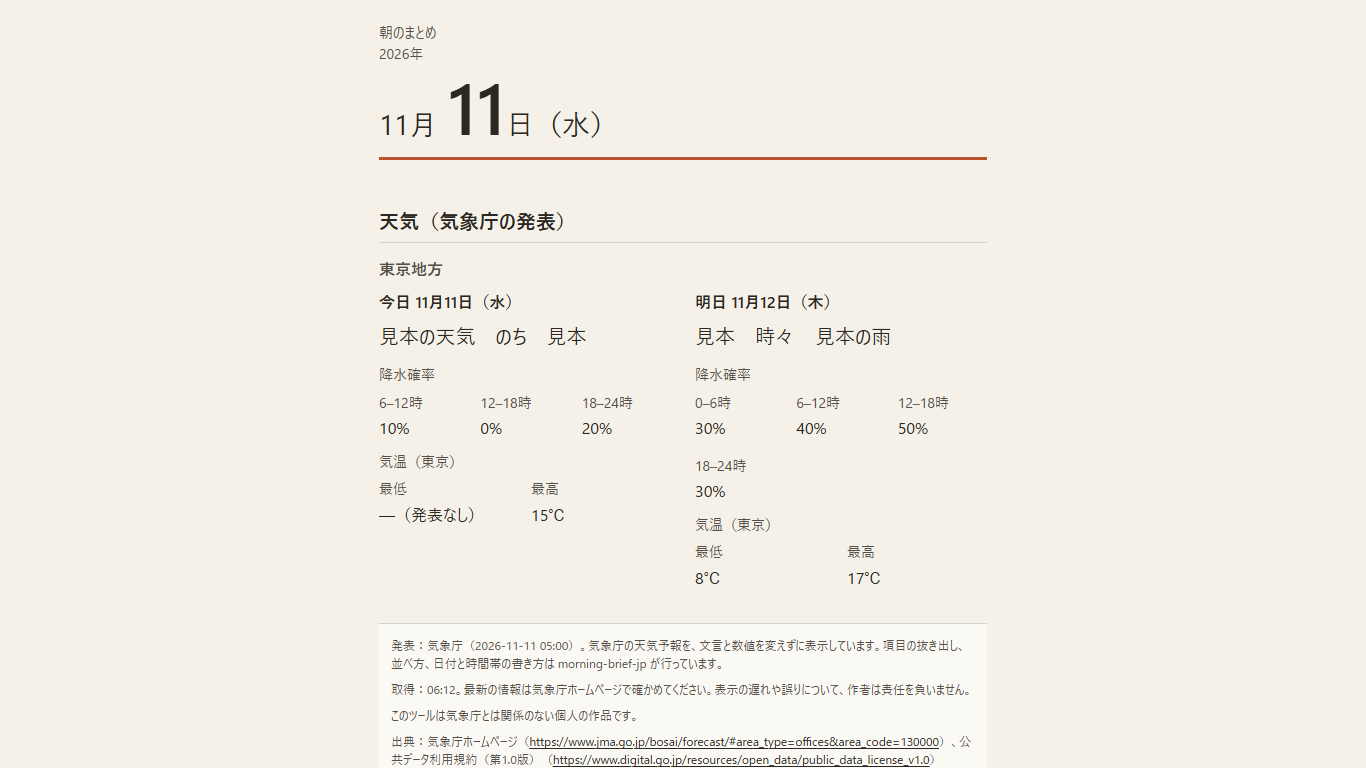
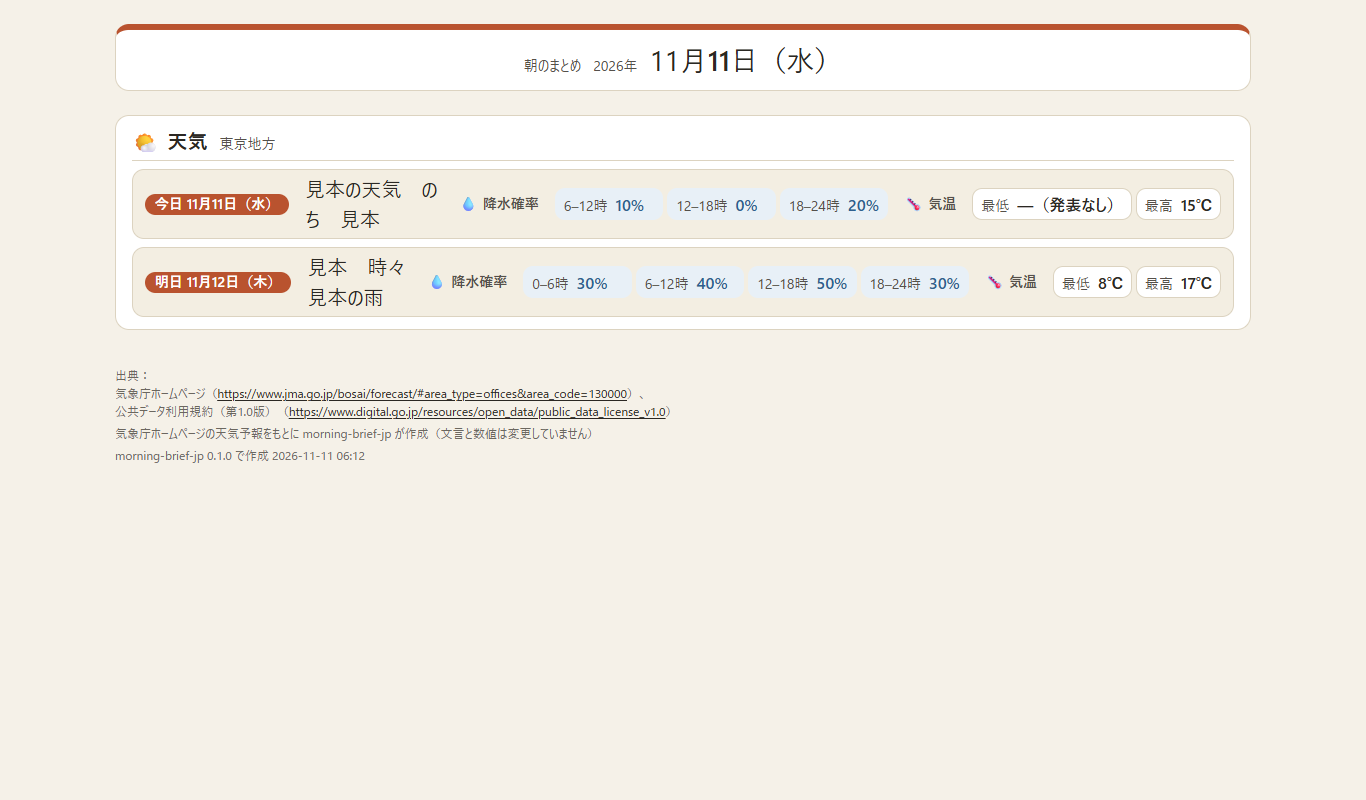
画面の見た目を直す：枠とカード、日付を1行、天気を横長に、注記は出典と加工の表示だけフッターへ

diff --git a/src/style.css b/src/style.css
@@ -1,11 +1,16 @@
 :root {
   color-scheme: light dark;
   --bg: #F5F1E8;
-  --surface: #FBF9F4;
+  --surface: #FFFFFF;
+  --soft: #F3EEE2;
+  --blue: #2F5F8F;
+  --blue-bg: #E8F0F7;
+  --warm-bg: #FBEBE3;
+  --radius: 14px;
   --ink: #2B2823;
   --dim: #55504A;
   --faint: #6B675F;
-  --line: #D9D2C3;
+  --line: #DCD3C0;
   --accent: #B9532F;
   --accent-text: #A24626;
   --link: #2B2823;
@@ -42,11 +47,15 @@
 @media (prefers-color-scheme: dark) {
   :root {
     --bg: #1C1A17;
-    --surface: #24211D;
+    --surface: #25221E;
+    --soft: #2D2924;
+    --blue: #8DB9E3;
+    --blue-bg: #22313F;
+    --warm-bg: #3A2A22;
     --ink: #ECE6DA;
     --dim: #C4BDB0;
     --faint: #9A968C;
-    --line: #3A362F;
+    --line: #403B33;
     --accent: #D9774F;
     --accent-text: #EE9A74;
     --link: #ECE6DA;
@@ -86,56 +95,65 @@ a:focus-visible, summary:focus-visible { outline: var(--focus); outline-offset: 
 .page { max-width: var(--page-max); margin: 0 auto; padding: var(--sp-5) var(--page-pad) var(--sp-6); min-width: 0; }
 
 /* 日付 */
-.masthead { padding-bottom: var(--sp-3); border-bottom: var(--rule-strong); margin-bottom: var(--section-gap); }
-.masthead h1 { font-size: var(--fs-sm); color: var(--dim); font-weight: var(--fw-regular); }
-.masthead .year { font-size: var(--fs-sm); color: var(--dim); font-variant-numeric: tabular-nums; }
-.masthead .date { font-size: var(--fs-xl); line-height: 1.1; font-variant-numeric: tabular-nums; }
-.masthead .date .d { font-size: var(--fs-date); font-weight: var(--fw-strong); margin-left: 0.15em; }
+.masthead { display: flex; flex-wrap: wrap; justify-content: center; align-items: baseline; gap: 0 var(--sp-3); padding: var(--sp-3) var(--sp-5); background: var(--surface); border: 1px solid var(--line); border-top: 6px solid var(--accent); border-radius: var(--radius); margin-bottom: var(--sp-5); }
+.masthead h1, .masthead .year { font-size: var(--fs-sm); color: var(--dim); font-weight: var(--fw-regular); font-variant-numeric: tabular-nums; }
+.masthead .date { font-size: var(--fs-xl); line-height: 1.3; font-variant-numeric: tabular-nums; }
+.masthead .date .d { font-weight: var(--fw-strong); }
+
+/* 出典と加工の表示（フッター） */
+.credits p + p, footer .made { margin-top: var(--sp-1); }
+.credits .src-line { display: block; }
 
 /* 欄 */
 main { min-width: 0; }
-.col { min-width: 0; display: flex; flex-direction: column; gap: var(--section-gap); }
+main { display: flex; flex-direction: column; gap: var(--sp-5); }
+.duo { display: grid; grid-template-columns: minmax(0, 1fr); gap: var(--sp-5); align-items: start; }
 section { min-width: 0; }
-.col-news { margin-top: var(--section-gap); }
+main > section, .duo > section { background: var(--surface); border: 1px solid var(--line); border-radius: var(--radius); padding: var(--sp-4); }
 .sec-head { display: flex; flex-wrap: wrap; align-items: baseline; gap: var(--sp-2) var(--sp-3); padding-bottom: var(--sp-2); border-bottom: var(--rule); margin-bottom: var(--sp-4); }
 .sec-head h2 { font-size: var(--fs-lg); }
+.sec-head .area { color: var(--dim); font-size: var(--fs-sm); }
+.sec-head h2::before { content: var(--ico); content: var(--ico) / ""; margin-right: 0.4em; }
+.weather .sec-head { --ico: "🌤"; }
+.schedule .sec-head { --ico: "📅"; }
+.news .sec-head { --ico: "📰"; }
 .alert { color: var(--accent-text); border-left: var(--rule-strong); padding-left: var(--sp-3); font-size: var(--fs-md); }
 .alert p + p { margin-top: var(--sp-1); }
 .stale-note { margin-bottom: var(--sp-4); }
 
 /* 天気 */
-.weather h3 { font-size: var(--fs-md); color: var(--dim); margin-bottom: var(--sp-3); }
-.days { display: grid; grid-template-columns: minmax(0, 1fr); gap: 0; }
-.day { min-width: 0; padding: var(--sp-3) 0 var(--sp-4); border-top: var(--rule); }
-.day:first-child { border-top: 0; padding-top: 0; }
-.day h4 { font-size: var(--fs-md); margin-bottom: var(--sp-2); font-variant-numeric: tabular-nums; }
+.days { display: grid; grid-template-columns: minmax(0, 1fr); gap: var(--sp-3); }
+.day { min-width: 0; padding: var(--sp-4); background: var(--soft); border: 1px solid var(--line); border-radius: 12px; }
+.day + .day { margin-top: var(--sp-3); }
+.day h3 { display: inline-block; font-size: var(--fs-sm); margin-bottom: var(--sp-2); padding: 0.1em 0.7em; background: var(--accent); color: #fff; border-radius: 999px; font-variant-numeric: tabular-nums; }
 .day-empty { color: var(--dim); margin-bottom: var(--sp-2); }
-.wx { font-size: var(--fs-lg); line-height: 1.5; margin-bottom: var(--sp-3); }
-.label { font-size: var(--fs-sm); color: var(--dim); margin: var(--sp-2) 0 var(--sp-1); }
-.grid { display: grid; grid-template-columns: repeat(auto-fit, minmax(4.5rem, 1fr)); gap: var(--sp-3); }
-.grid > div { min-width: 0; }
+.wx { font-size: var(--fs-lg); line-height: 1.5; margin-bottom: var(--sp-3); padding-bottom: var(--sp-3); border-bottom: 1px dashed var(--line); }
+.label { font-size: var(--fs-sm); color: var(--dim); font-weight: var(--fw-strong); margin: var(--sp-3) 0 var(--sp-2); }
+.label::before { content: var(--ico); content: var(--ico) / ""; margin-right: 0.35em; }
+.label-pop { --ico: "💧"; }
+.label-temp { --ico: "🌡"; }
+.grid { display: grid; grid-template-columns: repeat(auto-fit, minmax(4.5rem, 1fr)); gap: var(--sp-2); }
+.grid > div { min-width: 0; padding: var(--sp-2) var(--sp-3); background: var(--surface); border: 1px solid var(--line); border-radius: 10px; }
 .grid dt { font-size: var(--fs-sm); color: var(--dim); font-variant-numeric: tabular-nums; }
-.grid dd { font-size: var(--fs-md); }
-.notes { margin-top: var(--sp-4); padding: var(--sp-3) var(--sp-3); background: var(--surface); border-top: var(--rule); font-size: var(--fs-xs); line-height: 1.5; color: var(--dim); }
-.notes p + p { margin-top: var(--sp-2); } /* 段落の間 8px */
-.notes .src-line { display: block; } /* 出典は1つずつ別の行 */
-.notes .src-line a { display: inline-flex; align-items: center; min-height: var(--tap-min); } /* 指で押せる高さ（44px）。文字は 12px のまま */
+.grid dd { font-size: var(--fs-md); font-weight: var(--fw-strong); }
+.pops { grid-template-columns: none; grid-auto-flow: column; grid-auto-columns: minmax(0, 1fr); gap: var(--sp-1); } /* 時間帯は何枠でも1段 */
+.pops > div { padding: var(--sp-2) var(--sp-1); text-align: center; background: var(--blue-bg); border-color: transparent; }
+.pops dt { white-space: nowrap; }
+.pops dd { color: var(--blue); }
 
 /* 予定 */
-.events li { display: flex; gap: var(--sp-3); align-items: baseline; min-height: var(--tap-min); padding: var(--sp-2) 0; border-bottom: var(--rule); }
-.events li:last-child { border-bottom: 0; }
-.ev-time { flex: 0 0 6.5rem; color: var(--dim); }
+.events li { display: flex; gap: var(--sp-3); align-items: baseline; min-height: var(--tap-min); padding: var(--sp-2) var(--sp-3); margin-bottom: var(--sp-2); background: var(--soft); border-left: 4px solid var(--accent); border-radius: 8px; }
+.ev-time { flex: 0 0 6.5rem; color: var(--accent-text); font-weight: var(--fw-strong); }
 .ev-title { flex: 1 1 auto; min-width: 0; }
 .empty { color: var(--dim); }
 .schedule .alert { margin-top: var(--sp-3); }
 .schedule { max-width: var(--measure); }
 
 /* ニュース */
-.terms { font-size: var(--fs-sm); color: var(--dim); margin: calc(-1 * var(--sp-2)) 0 var(--sp-4); }
 .feeds { display: grid; grid-template-columns: minmax(0, 1fr); gap: var(--sp-6); }
 .feed { min-width: 0; }
-.feed h3 { font-size: var(--fs-md); color: var(--dim); padding-bottom: var(--sp-1); }
-.items li { padding: var(--sp-3) 0; border-bottom: var(--rule); min-height: var(--tap-min); }
+.feed h3 { font-size: var(--fs-md); color: var(--blue); padding-bottom: var(--sp-2); }
+.items li { padding: var(--sp-3); margin-bottom: var(--sp-2); background: var(--soft); border-radius: 10px; min-height: var(--tap-min); }
 .items a, .items .title { font-weight: var(--fw-strong); display: block; }
 .items a { display: flex; align-items: center; min-height: var(--tap-min); } /* 指で押せる高さ（44px）。1行の見出しでも */
 .items time { display: block; font-size: var(--fs-sm); color: var(--faint); margin-top: var(--sp-1); }
@@ -143,24 +161,42 @@ section { min-width: 0; }
 details > summary { min-height: var(--tap-min); display: flex; align-items: center; cursor: pointer; color: var(--ink); font-size: var(--fs-sm); text-decoration: underline; text-underline-offset: 0.18em; margin-top: var(--sp-2); }
 .feed .alert { margin-top: var(--sp-2); }
 
-footer { margin-top: var(--sp-7); padding-top: var(--sp-3); border-top: var(--rule); font-size: var(--fs-sm); color: var(--faint); font-variant-numeric: tabular-nums; }
+footer { margin-top: var(--sp-5); padding-top: var(--sp-3); font-size: var(--fs-xs); line-height: 1.5; color: var(--faint); font-variant-numeric: tabular-nums; }
 
 @media (min-width: 48rem) {
   :root { --page-pad: var(--sp-5); --page-max: 46rem; }
-  .days { grid-template-columns: repeat(2, minmax(0, 1fr)); gap: var(--sp-5); }
-  .day { border-top: 0; padding-top: 0; }
   .feeds { grid-template-columns: repeat(auto-fit, minmax(20rem, 1fr)); }
 }
 @media (min-width: 64rem) {
-  :root { --page-pad: var(--sp-6); --page-max: 70rem; --section-gap: var(--sp-7); }
-  .has-news main { display: grid; grid-template-columns: 26rem minmax(0, 1fr); gap: var(--sp-7); align-items: start; }
-  .has-news .col-news { margin-top: 0; }
-  .has-news .col-main .days { grid-template-columns: minmax(0, 1fr); gap: 0; }
-  .has-news .col-main .day + .day { border-top: var(--rule); padding-top: var(--sp-3); }
-  .no-news { --page-max: calc(var(--measure) + 2 * var(--page-pad)); }
+  :root { --page-pad: var(--sp-6); --page-max: 70rem; }
+  .duo-2 { grid-template-columns: repeat(2, minmax(0, 1fr)); }
+  .duo > section { padding: var(--sp-5); }
+  .duo .sec-head h2 { font-size: var(--fs-xl); }
+  /* 天気は低く：見出し、2日分の1行、注記を詰める */
+  .weather { padding: var(--sp-3) var(--sp-4) !important; }
+  .weather .sec-head { margin-bottom: var(--sp-2); padding-bottom: var(--sp-1); }
+  .weather .days { gap: var(--sp-2); }
+  .weather .day { padding: var(--sp-1) var(--sp-3); }
+  .weather .day + .day { margin-top: 0; }
+  .weather .grid > div { padding: 0.1rem var(--sp-2); display: flex; gap: var(--sp-2); align-items: baseline; }
+  .weather .pops > div { padding: 0.1rem var(--sp-2); }
+  .weather .pops { gap: var(--sp-1); }
+  .weather .day { gap: var(--sp-1) var(--sp-3); }
+  .weather .day .wx { flex: 1 1 8rem; font-size: var(--fs-lg); }
+  .weather .grid > div { padding: 0.1rem var(--sp-2); }
+  /* 天気は横長：今日と明日を横に並べ、1日分は1行にまとめる */
+  .weather .day { display: flex; flex-wrap: wrap; align-items: center; gap: var(--sp-2) var(--sp-4); }
+  .weather .day h3 { margin: 0; }
+  .weather .day .wx { margin: 0; padding: 0; border: 0; flex: 1 1 14rem; }
+  .weather .day .label { margin: 0; }
+  .weather .day .grid { grid-auto-flow: column; grid-template-columns: none; gap: var(--sp-1); }
+  .weather .day-empty { flex: 1 1 100%; }
 }
 @media (min-width: 85rem) {
   :root { --page-max: 75rem; }
+  .weather .day { flex-wrap: nowrap; }
+  .weather .day .wx { min-width: 0; }
+  .weather .day h3, .weather .day .label, .weather .day .grid { flex: none; white-space: nowrap; }
 }
 @media (min-width: 120rem) {
   :root { --page-max: 80rem; }

diff --git a/README.md b/README.md
@@ -40,8 +40,8 @@
 | iCal | カレンダーの予定を書き出す決まった形式。Google カレンダーなどが、予定をこの形式で読めるアドレスを用意しています |
 | RSS / Atom | ニュースサイトなどが新しい記事の見出しを配る形式。サイトによって「RSS」「フィード」と書かれています |
 | キャッシュ | 前に取った天気のデータを PC に取っておいたもの（このフォルダの `.cache`）。気象庁へ何度も取りに行かないために使います |
-| 発表 | 気象庁が予報を出した時刻。画面の「発表：」の後に出ます |
-| 取得 | この道具が気象庁からデータを取ってきた時刻。画面の「取得：」の後に出ます。取得が新しくても、発表は前のままのことがあります |
+| 発表 | 気象庁が予報を出した時刻。前回取得分を出すときだけ、「前回取得分：〜発表の予報です。」の行に出ます |
+| 取得 | この道具が気象庁からデータを取ってきた時刻。画面には出しません（取得が新しくても、発表は前のままのことがあります） |
 
 ---
 
